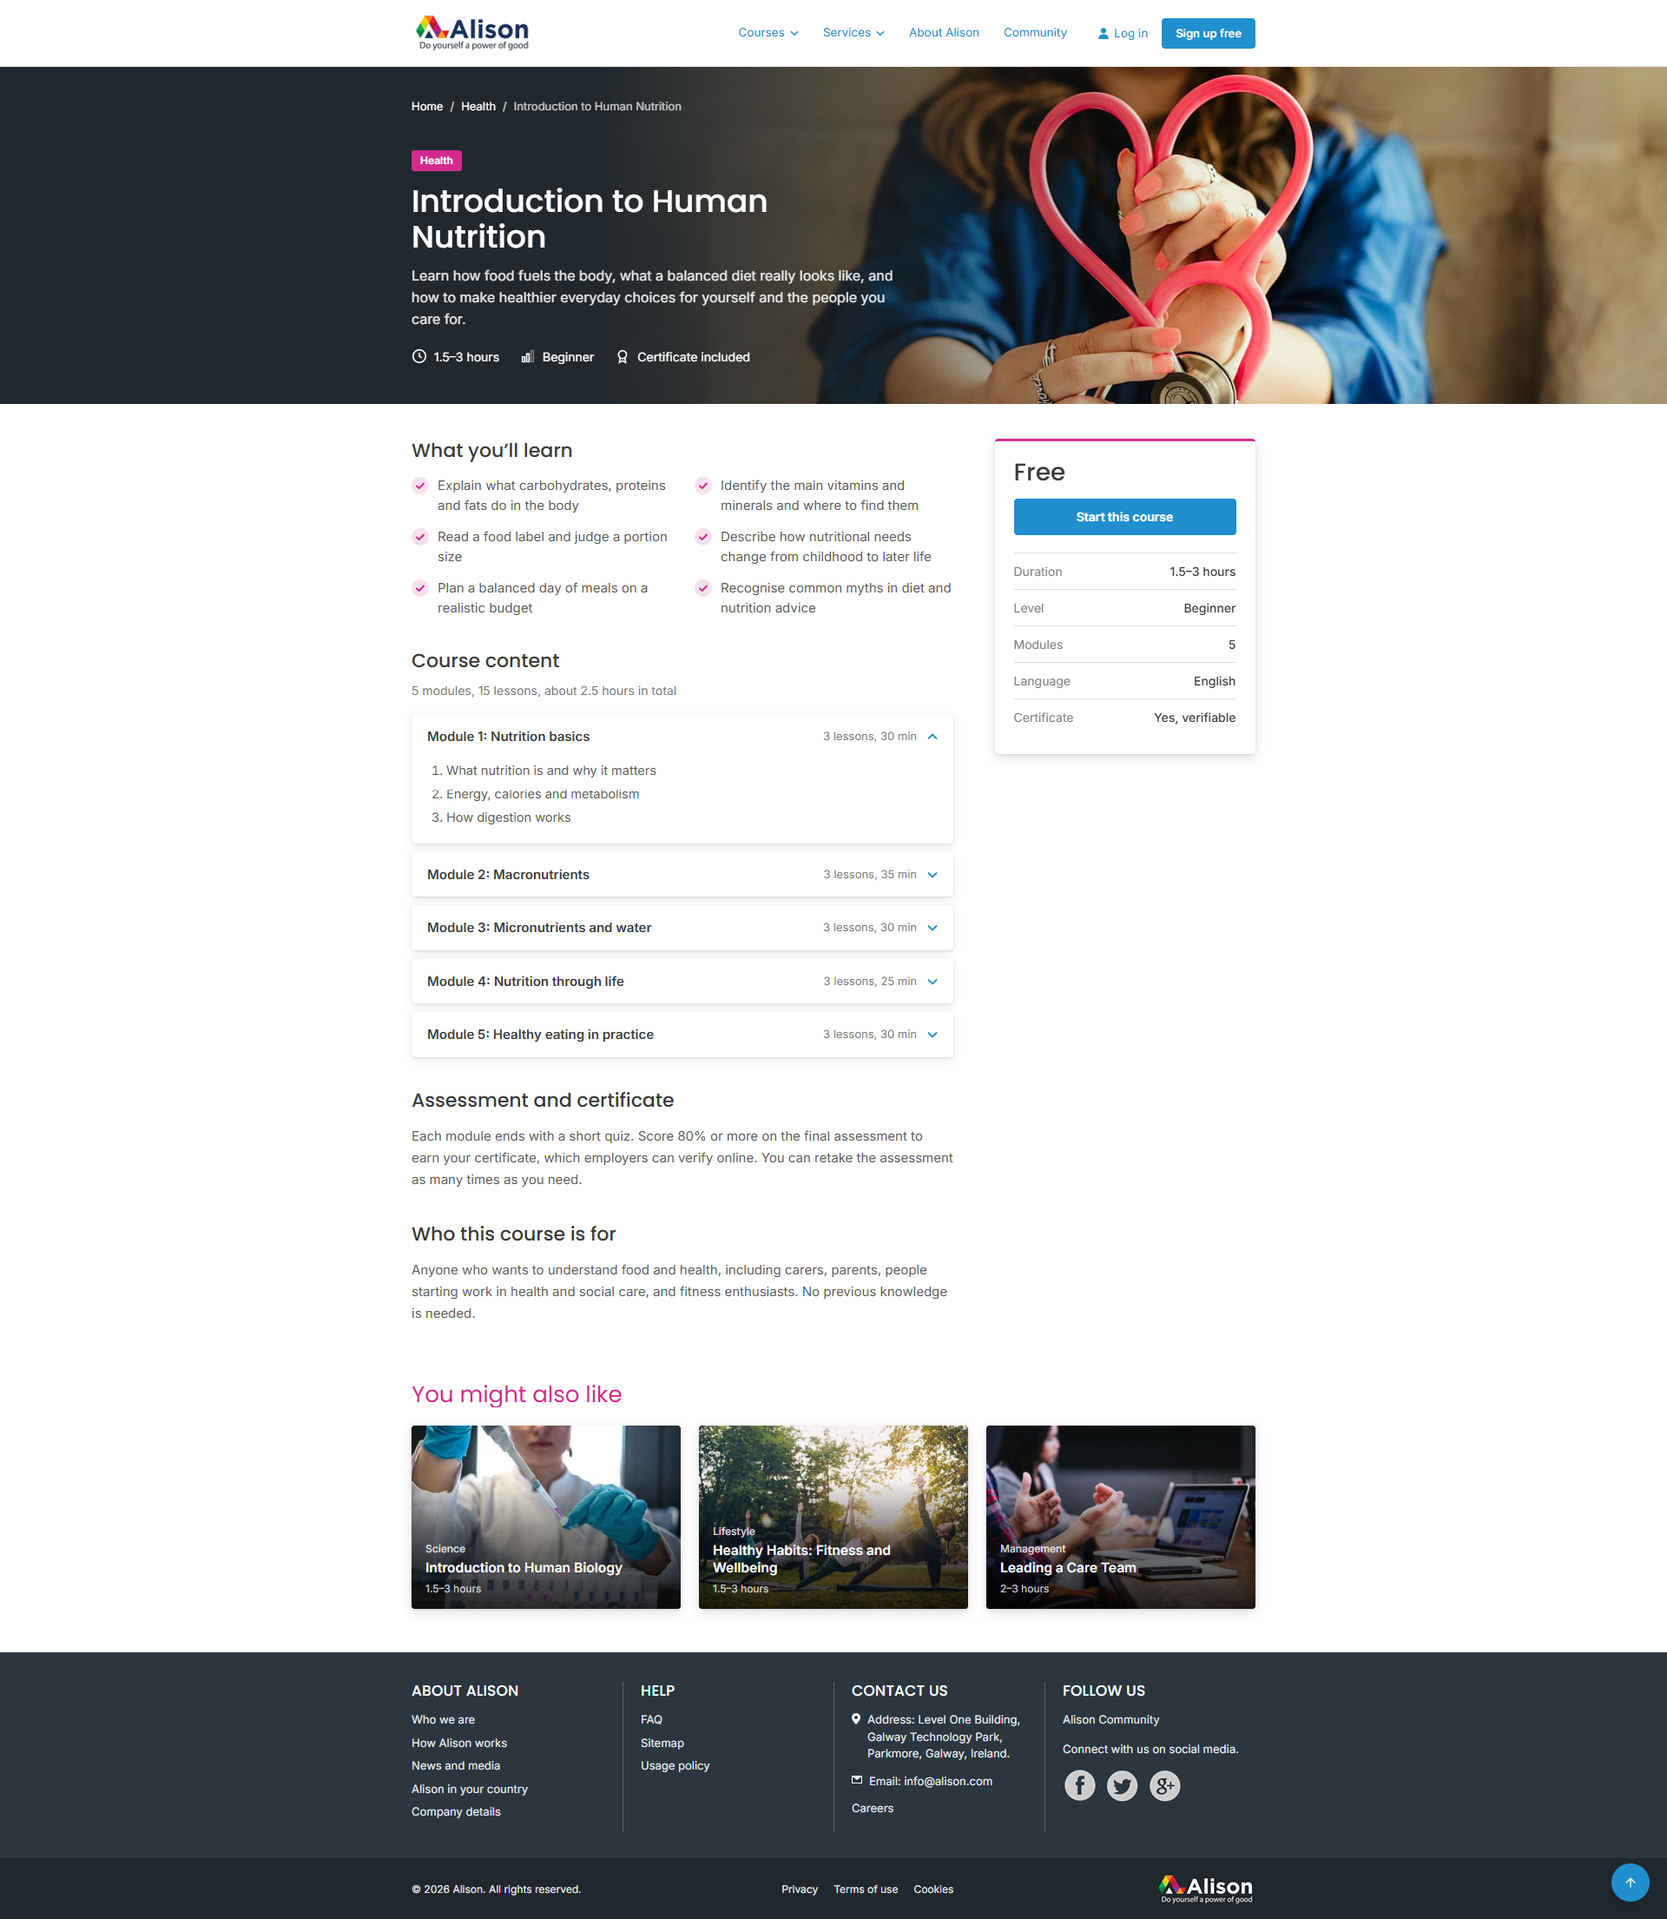
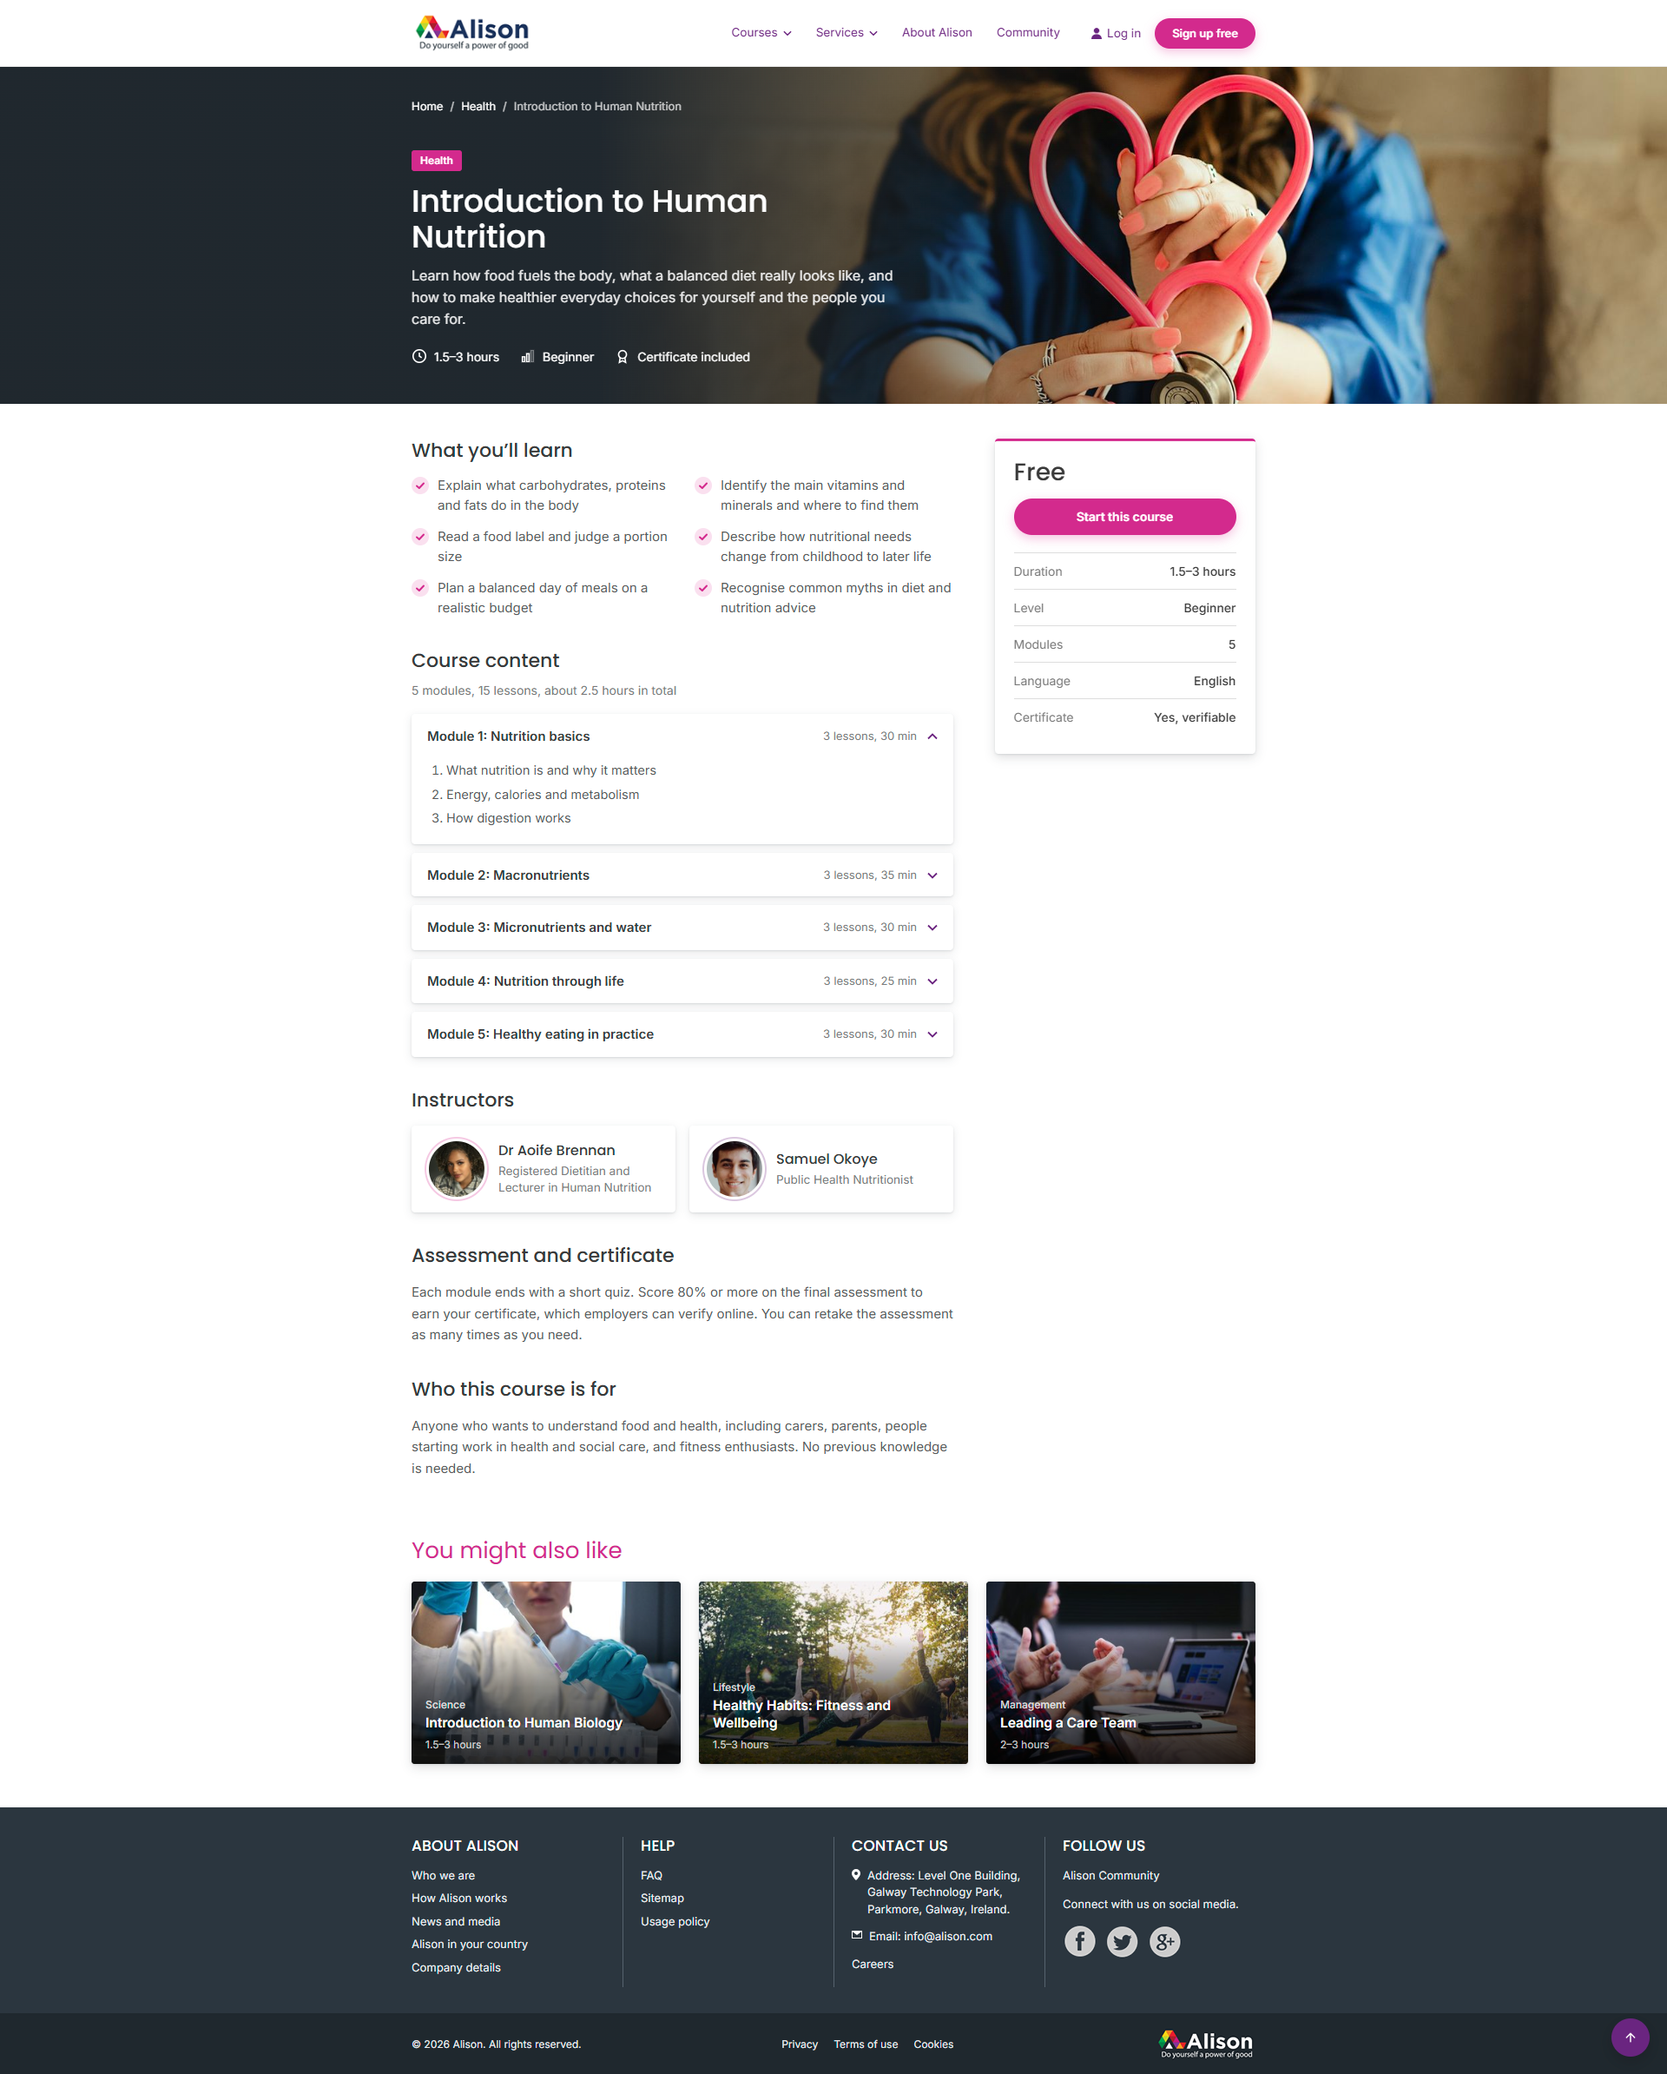
Alison: show on the home page; new homepage, course and dashboard screenshots with full-width layouts; palette from the designs; Identity section removed for now (saved in _hidden)

diff --git a/portfolio/Alison.html b/portfolio/Alison.html
@@ -126,7 +126,7 @@ img{display:block;max-width:100%;}
 @media(max-width:880px){.principles{grid-template-columns:1fr;}}
 
 /* PALETTE */
-.palette{margin-top:clamp(40px,4vw,60px);display:grid;grid-template-columns:repeat(5,1fr);border:1px solid var(--line);border-radius:12px;overflow:hidden;}
+.palette{margin-top:clamp(40px,4vw,60px);display:grid;grid-template-columns:repeat(6,1fr);border:1px solid var(--line);border-radius:12px;overflow:hidden;}
 .sw{padding:26px 20px 22px;display:flex;flex-direction:column;justify-content:flex-end;min-height:188px;color:#fff;}
 .sw .sw-name{font-family:var(--font-display);font-weight:600;font-size:15px;margin:0 0 4px;}
 .sw .sw-hex{font-family:var(--font-mono);font-size:11px;letter-spacing:.06em;opacity:.85;}
@@ -222,6 +222,18 @@ img{display:block;max-width:100%;}
   h1,h2,h3,h4{break-after:avoid;page-break-after:avoid;}
   a[href]::after{content:none !important;}
 }
+
+.shot.wide,.shot.wide.flip{grid-template-columns:minmax(0,1fr);row-gap:clamp(24px,2.6vw,34px);}
+.shot.wide > *,.shot.wide.flip > *{grid-column:1 !important;grid-row:auto !important;}
+.shot.wide .shot-cap{position:static;display:grid;grid-template-columns:minmax(0,1fr) minmax(0,1.25fr);column-gap:clamp(32px,5vw,80px);align-items:start;max-width:none;}
+.shot.wide .shot-cap .shot-num,.shot.wide .shot-cap h3{grid-column:1;}
+.shot.wide .shot-cap .cap-body{grid-column:2;grid-row:1 / span 2;max-width:60ch;}
+.shot.wide .shot-cap .cap-body > p{margin-top:0;}
+.shot.wide .shot-cap{grid-template-rows:auto 1fr;}
+.shot.wide .shot-cap h3{align-self:start;}
+.shot.wide .shot-cap .cap-body > p{max-width:60ch;}
+.shot.wide .shot-pair{margin-top:0;}
+@media(max-width:860px){.shot.wide .shot-cap{display:block;}.shot.wide .shot-cap .cap-body{max-width:none;}.shot.wide .shot-pair{margin-top:26px;}}
 </style>
 <script src="../image-slot.js"></script>
 <script src="../theme.js"></script>
@@ -363,32 +375,17 @@ img{display:block;max-width:100%;}
 
 <section class="case-section">
   <div class="wrap">
-    <div class="sec-head">
-      <span class="lbl">Identity</span>
-      <h2 class="sec-title">A mark built to sit beside a learner's name</h2>
-      <p class="sec-lead">The wordmark carries the brand on its own, whether on a certificate, an app icon, a partner page or a course tile, without needing a strapline to explain it.</p>
-    </div>
-    <div class="panel-pair">
-      <div class="panel dark">
-        <div class="panel-pad dark"><span class="lbl">Primary</span><h3>Wordmark &amp; symbol</h3></div>
-        <div class="img-frame"><image-slot id="alison-logo" shape="rect" placeholder="Drop Alison logo / lockup"></image-slot></div>
-      </div>
-      <div class="panel">
-        <div class="panel-pad"><span class="lbl">In use</span><h3>Applied to the platform</h3></div>
-        <div class="img-frame"><image-slot id="alison-brand-app" shape="rect" placeholder="Drop brand application shot"></image-slot></div>
-      </div>
-    </div>
-
-    <div style="margin-top:clamp(48px,5vw,72px);">
+    <div>
       <span class="lbl" style="display:block;margin-bottom:8px;">Colour Palette</span>
-      <h3 style="font-family:var(--font-display);font-weight:600;font-size:clamp(20px,2vw,24px);letter-spacing:-.01em;margin:0;">Growth greens, with a warm signal colour</h3>
+      <h3 style="font-family:var(--font-display);font-weight:600;font-size:clamp(20px,2vw,24px);letter-spacing:-.01em;margin:0;">Confident pink, grounded in slate</h3>
       <div class="palette">
-        <div class="sw" style="background:#0c3b26;"><p class="sw-name">Forest</p><p class="sw-hex">#0C3B26</p></div>
-        <div class="sw" style="background:#0f8a4a;"><p class="sw-name">Alison Green</p><p class="sw-hex">#0F8A4A</p></div>
-        <div class="sw" style="background:#3fbf6f;"><p class="sw-name">Leaf</p><p class="sw-hex">#3FBF6F</p></div>
-        <div class="sw" style="background:#f2b41c;color:#3d2b00;"><p class="sw-name">Signal</p><p class="sw-hex">#F2B41C</p></div>
-        <div class="sw" style="background:#12261d;"><p class="sw-name">Text Green</p><p class="sw-hex">#12261D</p></div>
-      </div>
+            <div class="sw" style="background:#d32a8d;"><p class="sw-name">Alison Pink</p><p class="sw-hex">#D32A8D</p></div>
+            <div class="sw" style="background:#6a2580;"><p class="sw-name">Plum</p><p class="sw-hex">#6A2580</p></div>
+            <div class="sw" style="background:#21282e;"><p class="sw-name">Slate</p><p class="sw-hex">#21282E</p></div>
+            <div class="sw" style="background:#2d353a;"><p class="sw-name">Graphite</p><p class="sw-hex">#2D353A</p></div>
+            <div class="sw" style="background:#12a44a;"><p class="sw-name">Achievement Green</p><p class="sw-hex">#12A44A</p></div>
+            <div class="sw" style="background:#fbe9f4;color:#6a2580;"><p class="sw-name">Blush</p><p class="sw-hex">#FBE9F4</p></div>
+          </div>
     </div>
   </div>
 </section>
@@ -402,25 +399,31 @@ img{display:block;max-width:100%;}
     </div>
 
     <div class="webshots">
-      <article class="shot" data-screen-label="01 Homepage">
+      <article class="shot wide" data-screen-label="01 Homepage">
         <div class="shot-cap">
           <p class="shot-num">Homepage</p>
           <h3>Lead with the promise, not the catalogue</h3>
-          <p>The homepage opens on the mission and a single search-and-start path, then steps down into subject areas. Free is stated plainly and early, because it is the thing that changes a visitor's behaviour.</p>
-          <div class="shot-tags"><span>Positioning</span><span>Search-first</span><span>Conversion</span></div>
+          <div class="cap-body"><p>The homepage opens on the mission and a single search-and-start path, then steps down into subject areas. Free is stated plainly and early, because it is the thing that changes a visitor's behaviour.</p>
+          <div class="shot-tags"><span>Positioning</span><span>Search-first</span><span>Conversion</span></div></div>
         </div>
-        <div class="frame scroll">
-          <div class="frame-bar"><i></i><i></i><i></i><span class="fb-url">alison.com</span></div>
-          <div class="scroll-body"><img src="../images/alison/Alison_Homepage.png" alt="Alison homepage, full length: hero with course search, course categories, how Alison works and its benefits" loading="lazy" style="display:block;width:100%;height:auto"></div>
+        <div class="shot-pair">
+          <div class="frame scroll">
+            <div class="frame-bar"><i></i><i></i><i></i><span class="fb-url">alison.com</span></div>
+            <div class="scroll-body"><img src="../images/alison/Alison_Homepage.png" alt="Alison homepage with the ‘Education without boundaries’ hero, course search and the course categories grid" loading="lazy" style="display:block;width:100%;height:auto"></div>
+          </div>
+          <div class="frame scroll">
+            <div class="frame-bar"><i></i><i></i><i></i><span class="fb-url">alison.com</span></div>
+            <div class="scroll-body"><img src="../images/alison/Alison_Homepage_2.png" alt="Alison homepage with the ‘Learning that fits your life’ hero slide and the New Courses tab selected" loading="lazy" style="display:block;width:100%;height:auto"></div>
+          </div>
         </div>
       </article>
 
-      <article class="shot flip" data-screen-label="02 Course Pages">
+      <article class="shot flip wide" data-screen-label="02 Course Pages">
         <div class="shot-cap">
           <p class="shot-num">Courses</p>
           <h3>Every course page answers the same four questions</h3>
-          <p>What will I learn, how long will it take, what do I get at the end, and what does it cost. Fixing that order across the catalogue removed most of the hesitation between browsing and enrolling.</p>
-          <div class="shot-tags"><span>Templates</span><span>Enrolment</span><span>Certification</span></div>
+          <div class="cap-body"><p>What will I learn, how long will it take, what do I get at the end, and what does it cost. Fixing that order across the catalogue removed most of the hesitation between browsing and enrolling.</p>
+          <div class="shot-tags"><span>Templates</span><span>Enrolment</span><span>Certification</span></div></div>
         </div>
         <div class="shot-pair">
           <div class="frame scroll">
@@ -429,21 +432,21 @@ img{display:block;max-width:100%;}
           </div>
           <div class="frame scroll">
             <div class="frame-bar"><i></i><i></i><i></i><span class="fb-url">/ course detail</span></div>
-            <div class="scroll-body"><img src="../images/alison/Alison_Course_Detail.png" alt="Alison course page for Introduction to Human Nutrition: what you will learn, course content, assessment and a sticky summary card" loading="lazy" style="display:block;width:100%;height:auto"></div>
+            <div class="scroll-body"><img src="../images/alison/Alison_Course_Detail.png" alt="Alison course page for Introduction to Human Nutrition: what you will learn, course content, instructors, assessment and a sticky summary card" loading="lazy" style="display:block;width:100%;height:auto"></div>
           </div>
         </div>
       </article>
 
-      <article class="shot" data-screen-label="03 Learner Experience">
+      <article class="shot wide" data-screen-label="03 Learner Experience">
         <div class="shot-cap">
           <p class="shot-num">Learner Experience</p>
           <h3>Progress made visible</h3>
-          <p>For a free platform, completion is the hard problem. The learner views put progress, next step and certificate status in the same field of view, so returning learners always know exactly where to resume.</p>
-          <div class="shot-tags"><span>Retention</span><span>Progress</span><span>Dashboard</span></div>
+          <div class="cap-body"><p>For a free platform, completion is the hard problem. The learner views put progress, next step and certificate status in the same field of view, so returning learners always know exactly where to resume.</p>
+          <div class="shot-tags"><span>Retention</span><span>Progress</span><span>Dashboard</span></div></div>
         </div>
         <div class="frame scroll">
           <div class="frame-bar"><i></i><i></i><i></i><span class="fb-url">/ dashboard</span></div>
-          <div class="scroll-body"><img src="../images/alison/Alison_Dashboard.png" alt="Alison learner dashboard: progress summary, continue learning, my courses, diplomas, weekly goal and certificates" loading="lazy" style="display:block;width:100%;height:auto"></div>
+          <div class="scroll-body"><img src="../images/alison/Alison_Dashboard.png" alt="Alison learner dashboard: progress stats, continue learning, my courses, diplomas, weekly goal, certificates and what’s new" loading="lazy" style="display:block;width:100%;height:auto"></div>
         </div>
       </article>
     </div>

diff --git a/index.html b/index.html
@@ -328,7 +328,7 @@ a.proj-go{pointer-events:auto;cursor:pointer;text-decoration:none;}
   <div class="wrap">
     <div class="works-head">
       <p class="lbl">Selected Works</p>
-      <p class="lbl">01 / 07</p>
+      <p class="lbl">01 / 08</p>
     </div>
     <div class="works-grid">
       <article class="proj wide locked show-go">
@@ -358,6 +358,10 @@ a.proj-go{pointer-events:auto;cursor:pointer;text-decoration:none;}
       <article class="proj wide show-go">
           <div class="proj-img"><img src="images/delta/delta_cover.jpg" alt="Delta aircraft seen from below against a dark blue sky" loading="lazy" style="display:block;width:100%;height:100%;object-fit:cover;object-position:center"><a href="portfolio/Delta TechOps.html" class="proj-go" aria-label="View Delta TechOps case study"><svg width="20" height="20" viewBox="0 0 24 24" fill="none" stroke="currentColor" stroke-width="2" stroke-linecap="round" stroke-linejoin="round"><line x1="7" y1="17" x2="17" y2="7"></line><polyline points="7 7 17 7 17 17"></polyline></svg></a></div>
           <div class="proj-cap"><h3 class="proj-title"><a href="portfolio/Delta TechOps.html">Delta TechOps</a></h3><p class="lbl proj-meta">Aviation Training / Product &amp; UX Design</p></div>
+        </article>
+        <article class="proj wide show-go">
+          <div class="proj-img"><img src="images/alison/Alison_Hero.jpg" alt="A small team at work in a bright, plant-filled studio office" loading="lazy" style="display:block;width:100%;height:100%;object-fit:cover;object-position:center"><a href="portfolio/Alison.html" class="proj-go" aria-label="View Alison case study"><svg width="20" height="20" viewBox="0 0 24 24" fill="none" stroke="currentColor" stroke-width="2" stroke-linecap="round" stroke-linejoin="round"><line x1="7" y1="17" x2="17" y2="7"></line><polyline points="7 7 17 7 17 17"></polyline></svg></a></div>
+          <div class="proj-cap"><h3 class="proj-title"><a href="portfolio/Alison.html">Alison</a></h3><p class="lbl proj-meta">E-Learning / Brand &amp; Digital Design</p></div>
         </article>
     </div>
   </div>

diff --git a/_hidden/alison-identity.html b/_hidden/alison-identity.html
@@ -1,0 +1,18 @@
+<!-- Alison Identity section, removed from the case study for now.
+     To restore: paste this inside the Colour Palette section's <div class="wrap">, above the palette block,
+     and change that block's opening <div> back to <div style="margin-top:clamp(48px,5vw,72px);">. -->
+<div class="sec-head">
+      <span class="lbl">Identity</span>
+      <h2 class="sec-title">A mark built to sit beside a learner's name</h2>
+      <p class="sec-lead">The wordmark carries the brand on its own, whether on a certificate, an app icon, a partner page or a course tile, without needing a strapline to explain it.</p>
+    </div>
+    <div class="panel-pair">
+      <div class="panel dark">
+        <div class="panel-pad dark"><span class="lbl">Primary</span><h3>Wordmark &amp; symbol</h3></div>
+        <div class="img-frame"><image-slot id="alison-logo" shape="rect" placeholder="Drop Alison logo / lockup"></image-slot></div>
+      </div>
+      <div class="panel">
+        <div class="panel-pad"><span class="lbl">In use</span><h3>Applied to the platform</h3></div>
+        <div class="img-frame"><image-slot id="alison-brand-app" shape="rect" placeholder="Drop brand application shot"></image-slot></div>
+      </div>
+    </div>
